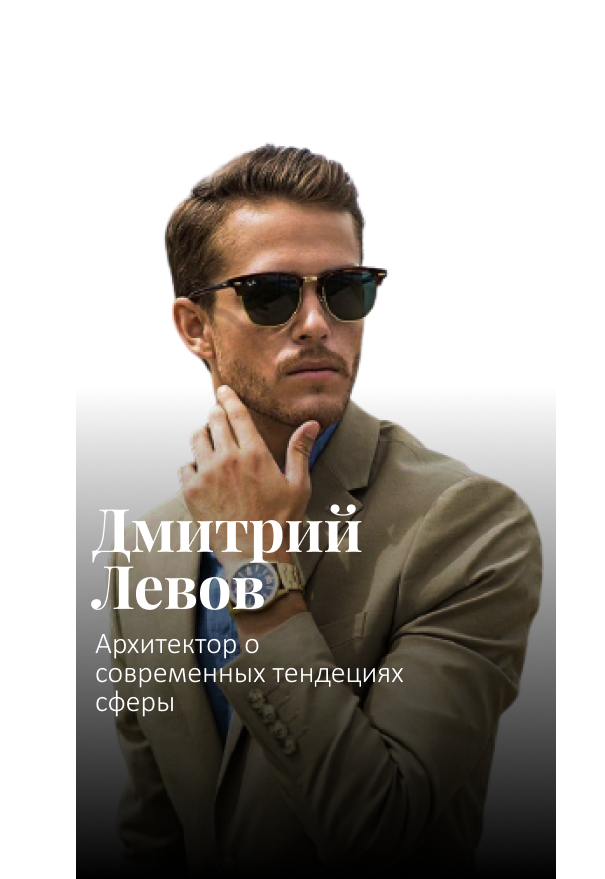
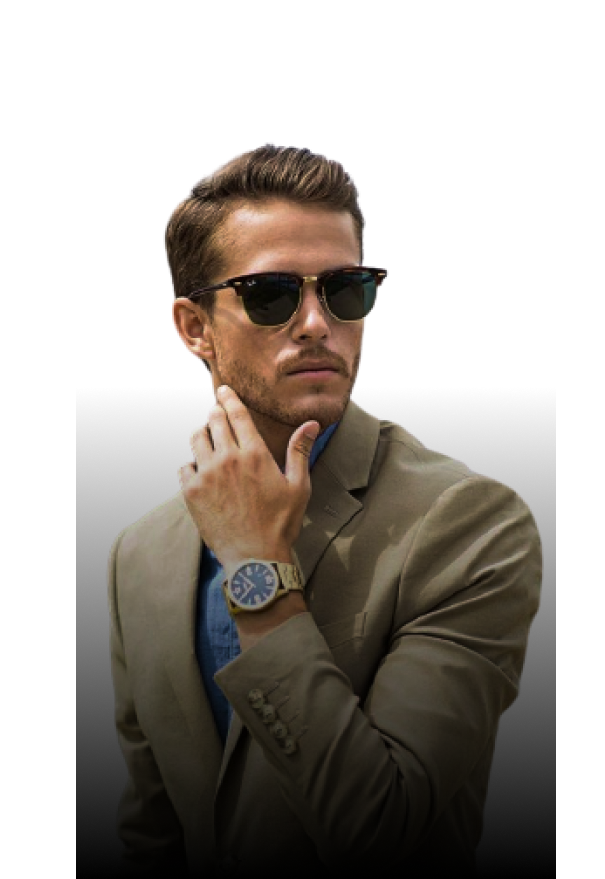
change curator and change nav

Changed region(s): [[0.1488, 0.5529, 0.6545, 0.8294]]

diff --git a/frontend/src/component/PrimaryCurator/PrimaryCurator.js b/frontend/src/component/PrimaryCurator/PrimaryCurator.js
@@ -1,30 +1,42 @@
 import './PrimaryCurator.scss';
 
 const PrimaryCurator = () => (
-  <div className="primaryCurator">
+  <div id="primaryCurator" className="primaryCurator">
     <div className="primaryCuratorName">
       <h5>КУРАТОР</h5>
     </div>
-    <a className="first" href="/first">
+    <a className="curator first" href="/curatorFirst">
       <div className="curatorImg firstImg">
         <img alt="first" src="./img/primaryCurator/img1.png" />
       </div>
-      <div className="curatorName">Дмитрий Левов</div>
-      <div className="curatorDescription">Архитектор о современных тендециях сферы</div>
+      <div className="curatorName">
+        <h4>Дмитрий Левов</h4>
+      </div>
+      <div className="curatorDescription">
+        <h2>Архитектор о современных тендециях сферы</h2>
+      </div>
     </a>
-    <a className="second" href="/second">
+    <a className="curator second" href="/curatorSecond">
       <div className="curatorImg secondImg">
         <img alt="second" src="./img/primaryCurator/img2.png" />
       </div>
-      <div className="curatorName">Мария Серединкова</div>
-      <div className="curatorDescription">Самый популярный шеф-повар страны делится кулинарными секретами </div>
+      <div className="curatorName">
+        <h4>Мария Серединкова</h4>
+      </div>
+      <div className="curatorDescription">
+        <h2>Самый популярный шеф-повар страны делится кулинарными секретами</h2>
+      </div>
     </a>
-    <a className="third" href="/third">
+    <a className="curator third" href="/curatorThird">
       <div className="curatorImg thirdImg">
         <img alt="third" src="./img/primaryCurator/img3.png" />
       </div>
-      <div className="curatorName">Изольда Правова</div>
-      <div className="curatorDescription">Дизайнер одежды рассказывает про моду человеческим языком</div>
+      <div className="curatorName">
+        <h4>Изольда Правова</h4>
+      </div>
+      <div className="curatorDescription">
+        <h2>Дизайнер одежды рассказывает про моду человеческим языком</h2>
+      </div>
     </a>
   </div>
 );

diff --git a/frontend/src/component/PrimaryCurator/PrimaryCurator.scss b/frontend/src/component/PrimaryCurator/PrimaryCurator.scss
@@ -1,6 +1,7 @@
 @import '../../fonts/font.scss';
 
 .primaryCurator {
+  margin: 140px 0px 0px;
   position: relative;
   width: 1445px;
   display: flex;
@@ -12,19 +13,65 @@
   //top: 81px;
   position: absolute;
   z-index: -1;
+  h5 {
+    font-size: 330px;
+  }
 }
 
 .curator {
-  width: 469px;
-  height: 582px;
+  height: 760px;
   position: relative;
   display: flex;
   flex-direction: column;
 }
 
+.first {
+  width: 480px;
+  .curatorName {
+    padding-top: 79.17%;
+  }
+  .curatorDescription {
+    h2 {
+      font-size: 30px;
+    }
+  }
+}
+
+.second {
+  width: 453px;
+  .curatorName {
+    padding-top: 83.885%;
+  }
+  .curatorDescription {
+    h2 {
+      font-size: 24px;
+    }
+  }
+}
+
+.third {
+  width: 480px;
+  .curatorName {
+    padding-top: 79.17%;
+  }
+  .curatorDescription {
+    h2 {
+      font-size: 35px;
+    }
+  }
+}
+
 .curatorImg {
   position: absolute;
   bottom: 0;
+}
+
+.firstImg {
+  left: -75px;
+}
+
+.secondImg {
+  left: -90px;
 }
 
 // .cosinessImg {
@@ -33,13 +80,13 @@
 
 .curatorName {
   z-index: 1;
-  padding-top: 94.67%;
-  padding-left: 12px;
+  padding-left: 21px;
+  width: 271px;
 }
 
 .curatorDescription {
   z-index: 1;
-  padding-left: 12px;
+  padding-left: 21px;
   padding-top: 2%;
   h2 {
     font-family: 'Merriweather';

diff --git a/frontend/src/component/Nav/Nav.js b/frontend/src/component/Nav/Nav.js
@@ -5,22 +5,22 @@ const Nav = () => (
   <div className="nav">
     <ul>
       <li>
-        <Link className="" to="" smooth={true} offset={-50} duration={1000}>
+        <Link to="" smooth={true} offset={-50} duration={1000}>
           <h2>Главная</h2>
         </Link>
       </li>
       <li>
-        <Link className="" to="" smooth={true} offset={-50} duration={1000}>
+        <Link to="primaryCategory" smooth={true} offset={-100} duration={1000}>
           <h2>Рубрика</h2>
         </Link>
       </li>
       <li>
-        <Link className="" to="" smooth={true} offset={-50} duration={1000}>
+        <Link to="primaryCurator" smooth={true} offset={-140} duration={1000}>
           <h2>Кураторы</h2>
         </Link>
       </li>
       <li>
-        <Link className="" to="" smooth={true} offset={-50} duration={1000}>
+        <Link to="" smooth={true} offset={-50} duration={1000}>
           <h2> О Нас</h2>
         </Link>
       </li>

diff --git a/frontend/src/component/PrimaryMain/primaryMain.js b/frontend/src/component/PrimaryMain/primaryMain.js
@@ -1,10 +1,10 @@
 import PrimaryNews from '../PrimaryNews/PrimaryNews';
 import PrimaryCategor from '../PrimaryCategory/PrimaryCategory';
 import PrimaryCurators from '../PrimaryCurator/PrimaryCurator';
-import './primaryMain.scss';
+import './PrimaryMain.scss';
 
 const PrimaryMain = () => (
-  <div className="PrimaryMain">
+  <div className="primaryMain">
     <PrimaryNews />
     <PrimaryCategor />
     <PrimaryCurators />

diff --git a/frontend/src/component/PrimaryCategory/PrimaryCategory.js b/frontend/src/component/PrimaryCategory/PrimaryCategory.js
@@ -1,7 +1,7 @@
 import './PrimaryCategory.scss';
 
 const PrimaryCategory = () => (
-  <div className="primaryCategory">
+  <div id="primaryCategory" className="primaryCategory">
     <div className="primaryCategoryName">
       <h5>РУБРИКА</h5>
     </div>

diff --git a/frontend/src/component/Main/Main.js b/frontend/src/component/Main/Main.js
@@ -1,5 +1,5 @@
 import { Route, Routes } from 'react-router-dom';
-import PrimaryMain from '../PrimaryMain/primaryMain';
+import PrimaryMain from '../PrimaryMain/PrimaryMain';
 import './Main.scss';
 
 const Main = () => (

diff --git a/frontend/src/component/PrimaryCategory/PrimaryCategory.scss b/frontend/src/component/PrimaryCategory/PrimaryCategory.scss
@@ -1,6 +1,7 @@
 @import '../../fonts/font.scss';
 
 .primaryCategory {
+  margin: 141px 0px 35px;
   position: relative;
   width: 1445px;
   display: flex;

diff --git a/frontend/src/component/Header/Header.scss b/frontend/src/component/Header/Header.scss
@@ -5,5 +5,5 @@
     background-color: #ffffff;
     height: 140px;
     width: 1440px;
-    z-index: 1;
+    z-index: 3;
 }

diff --git a/frontend/src/component/Main/Main.scss b/frontend/src/component/Main/Main.scss
@@ -1,4 +1,4 @@
 .main {
     position: relative;
-    top: 140px;
+    //top: 140px;
 }
